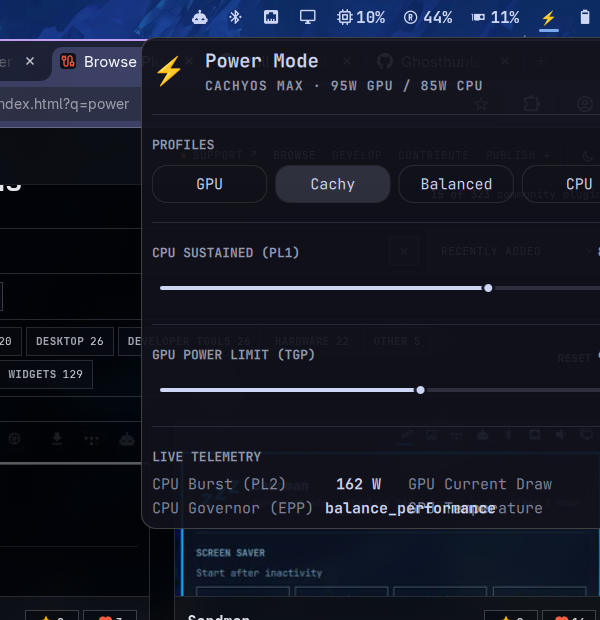
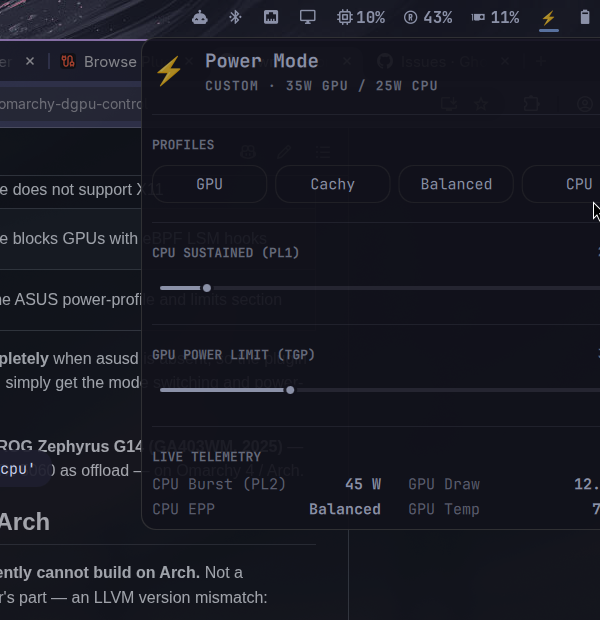
fix(ui): eliminate text overlap in telemetry card with anchored layout and clean EPP formatting

diff --git a/PowerMode.qml b/PowerMode.qml
@@ -400,16 +400,16 @@ Panel {
 
             Column {
               width: (parent.width - parent.spacing) / 2
-              spacing: Style.spacing.labelGap
+              spacing: Style.space(4)
               InfoPair { label: "CPU Burst (PL2)"; value: root.cpuPL2 + " W" }
-              InfoPair { label: "CPU Governor (EPP)"; value: root.cpuEPP }
+              InfoPair { label: "CPU EPP"; value: root.formatEpp(root.cpuEPP) }
             }
 
             Column {
               width: (parent.width - parent.spacing) / 2
-              spacing: Style.spacing.labelGap
-              InfoPair { label: "GPU Current Draw"; value: root.gpuDraw }
-              InfoPair { label: "GPU Temperature"; value: root.gpuTemp }
+              spacing: Style.space(4)
+              InfoPair { label: "GPU Draw"; value: root.gpuDraw }
+              InfoPair { label: "GPU Temp"; value: root.gpuTemp }
             }
           }
         }
@@ -417,29 +417,44 @@ Panel {
     }
   }
 
-  component InfoPair: Row {
+  function formatEpp(epp) {
+    var s = String(epp || "").toLowerCase()
+    if (s.indexOf("balance_perf") >= 0) return "Balanced"
+    if (s.indexOf("balance_power") >= 0) return "Power Saver"
+    if (s.indexOf("perf") >= 0) return "Performance"
+    if (s.indexOf("power") >= 0) return "Power Saver"
+    return s ? s.charAt(0).toUpperCase() + s.slice(1) : "—"
+  }
+
+  component InfoPair: Item {
     property string label: ""
     property string value: ""
 
     width: parent.width
-    spacing: Style.space(8)
+    implicitHeight: Math.max(lbl.implicitHeight, val.implicitHeight)
 
-    InfoLabel { text: label }
-    Item { width: Math.max(0, parent.width - parent.children[0].implicitWidth - parent.children[2].implicitWidth - parent.spacing * 2); height: 1 }
-    InfoValue { text: value }
-  }
+    Text {
+      id: lbl
+      text: label
+      color: root.barForeground
+      opacity: 0.6
+      font.family: root.bar ? root.bar.fontFamily : Style.font.family
+      font.pixelSize: Style.font.bodySmall
+      anchors.left: parent.left
+      anchors.verticalCenter: parent.verticalCenter
+      elide: Text.ElideRight
+      width: Math.min(implicitWidth, parent.width - val.implicitWidth - Style.space(6))
+    }
 
-  component InfoLabel: Text {
-    color: root.barForeground
-    opacity: 0.6
-    font.family: root.bar ? root.bar.fontFamily : Style.font.family
-    font.pixelSize: Style.font.bodySmall
-  }
-
-  component InfoValue: Text {
-    color: root.barForeground
-    font.family: root.bar ? root.bar.fontFamily : Style.font.family
-    font.pixelSize: Style.font.bodySmall
-    font.bold: true
+    Text {
+      id: val
+      text: value
+      color: root.barForeground
+      font.family: root.bar ? root.bar.fontFamily : Style.font.family
+      font.pixelSize: Style.font.bodySmall
+      font.bold: true
+      anchors.right: parent.right
+      anchors.verticalCenter: parent.verticalCenter
+    }
   }
 }

diff --git a/extensions/omarchy-quickshell/PowerMode.qml b/extensions/omarchy-quickshell/PowerMode.qml
@@ -400,16 +400,16 @@ Panel {
 
             Column {
               width: (parent.width - parent.spacing) / 2
-              spacing: Style.spacing.labelGap
+              spacing: Style.space(4)
               InfoPair { label: "CPU Burst (PL2)"; value: root.cpuPL2 + " W" }
-              InfoPair { label: "CPU Governor (EPP)"; value: root.cpuEPP }
+              InfoPair { label: "CPU EPP"; value: root.formatEpp(root.cpuEPP) }
             }
 
             Column {
               width: (parent.width - parent.spacing) / 2
-              spacing: Style.spacing.labelGap
-              InfoPair { label: "GPU Current Draw"; value: root.gpuDraw }
-              InfoPair { label: "GPU Temperature"; value: root.gpuTemp }
+              spacing: Style.space(4)
+              InfoPair { label: "GPU Draw"; value: root.gpuDraw }
+              InfoPair { label: "GPU Temp"; value: root.gpuTemp }
             }
           }
         }
@@ -417,29 +417,44 @@ Panel {
     }
   }
 
-  component InfoPair: Row {
+  function formatEpp(epp) {
+    var s = String(epp || "").toLowerCase()
+    if (s.indexOf("balance_perf") >= 0) return "Balanced"
+    if (s.indexOf("balance_power") >= 0) return "Power Saver"
+    if (s.indexOf("perf") >= 0) return "Performance"
+    if (s.indexOf("power") >= 0) return "Power Saver"
+    return s ? s.charAt(0).toUpperCase() + s.slice(1) : "—"
+  }
+
+  component InfoPair: Item {
     property string label: ""
     property string value: ""
 
     width: parent.width
-    spacing: Style.space(8)
+    implicitHeight: Math.max(lbl.implicitHeight, val.implicitHeight)
 
-    InfoLabel { text: label }
-    Item { width: Math.max(0, parent.width - parent.children[0].implicitWidth - parent.children[2].implicitWidth - parent.spacing * 2); height: 1 }
-    InfoValue { text: value }
-  }
+    Text {
+      id: lbl
+      text: label
+      color: root.barForeground
+      opacity: 0.6
+      font.family: root.bar ? root.bar.fontFamily : Style.font.family
+      font.pixelSize: Style.font.bodySmall
+      anchors.left: parent.left
+      anchors.verticalCenter: parent.verticalCenter
+      elide: Text.ElideRight
+      width: Math.min(implicitWidth, parent.width - val.implicitWidth - Style.space(6))
+    }
 
-  component InfoLabel: Text {
-    color: root.barForeground
-    opacity: 0.6
-    font.family: root.bar ? root.bar.fontFamily : Style.font.family
-    font.pixelSize: Style.font.bodySmall
-  }
-
-  component InfoValue: Text {
-    color: root.barForeground
-    font.family: root.bar ? root.bar.fontFamily : Style.font.family
-    font.pixelSize: Style.font.bodySmall
-    font.bold: true
+    Text {
+      id: val
+      text: value
+      color: root.barForeground
+      font.family: root.bar ? root.bar.fontFamily : Style.font.family
+      font.pixelSize: Style.font.bodySmall
+      font.bold: true
+      anchors.right: parent.right
+      anchors.verticalCenter: parent.verticalCenter
+    }
   }
 }
